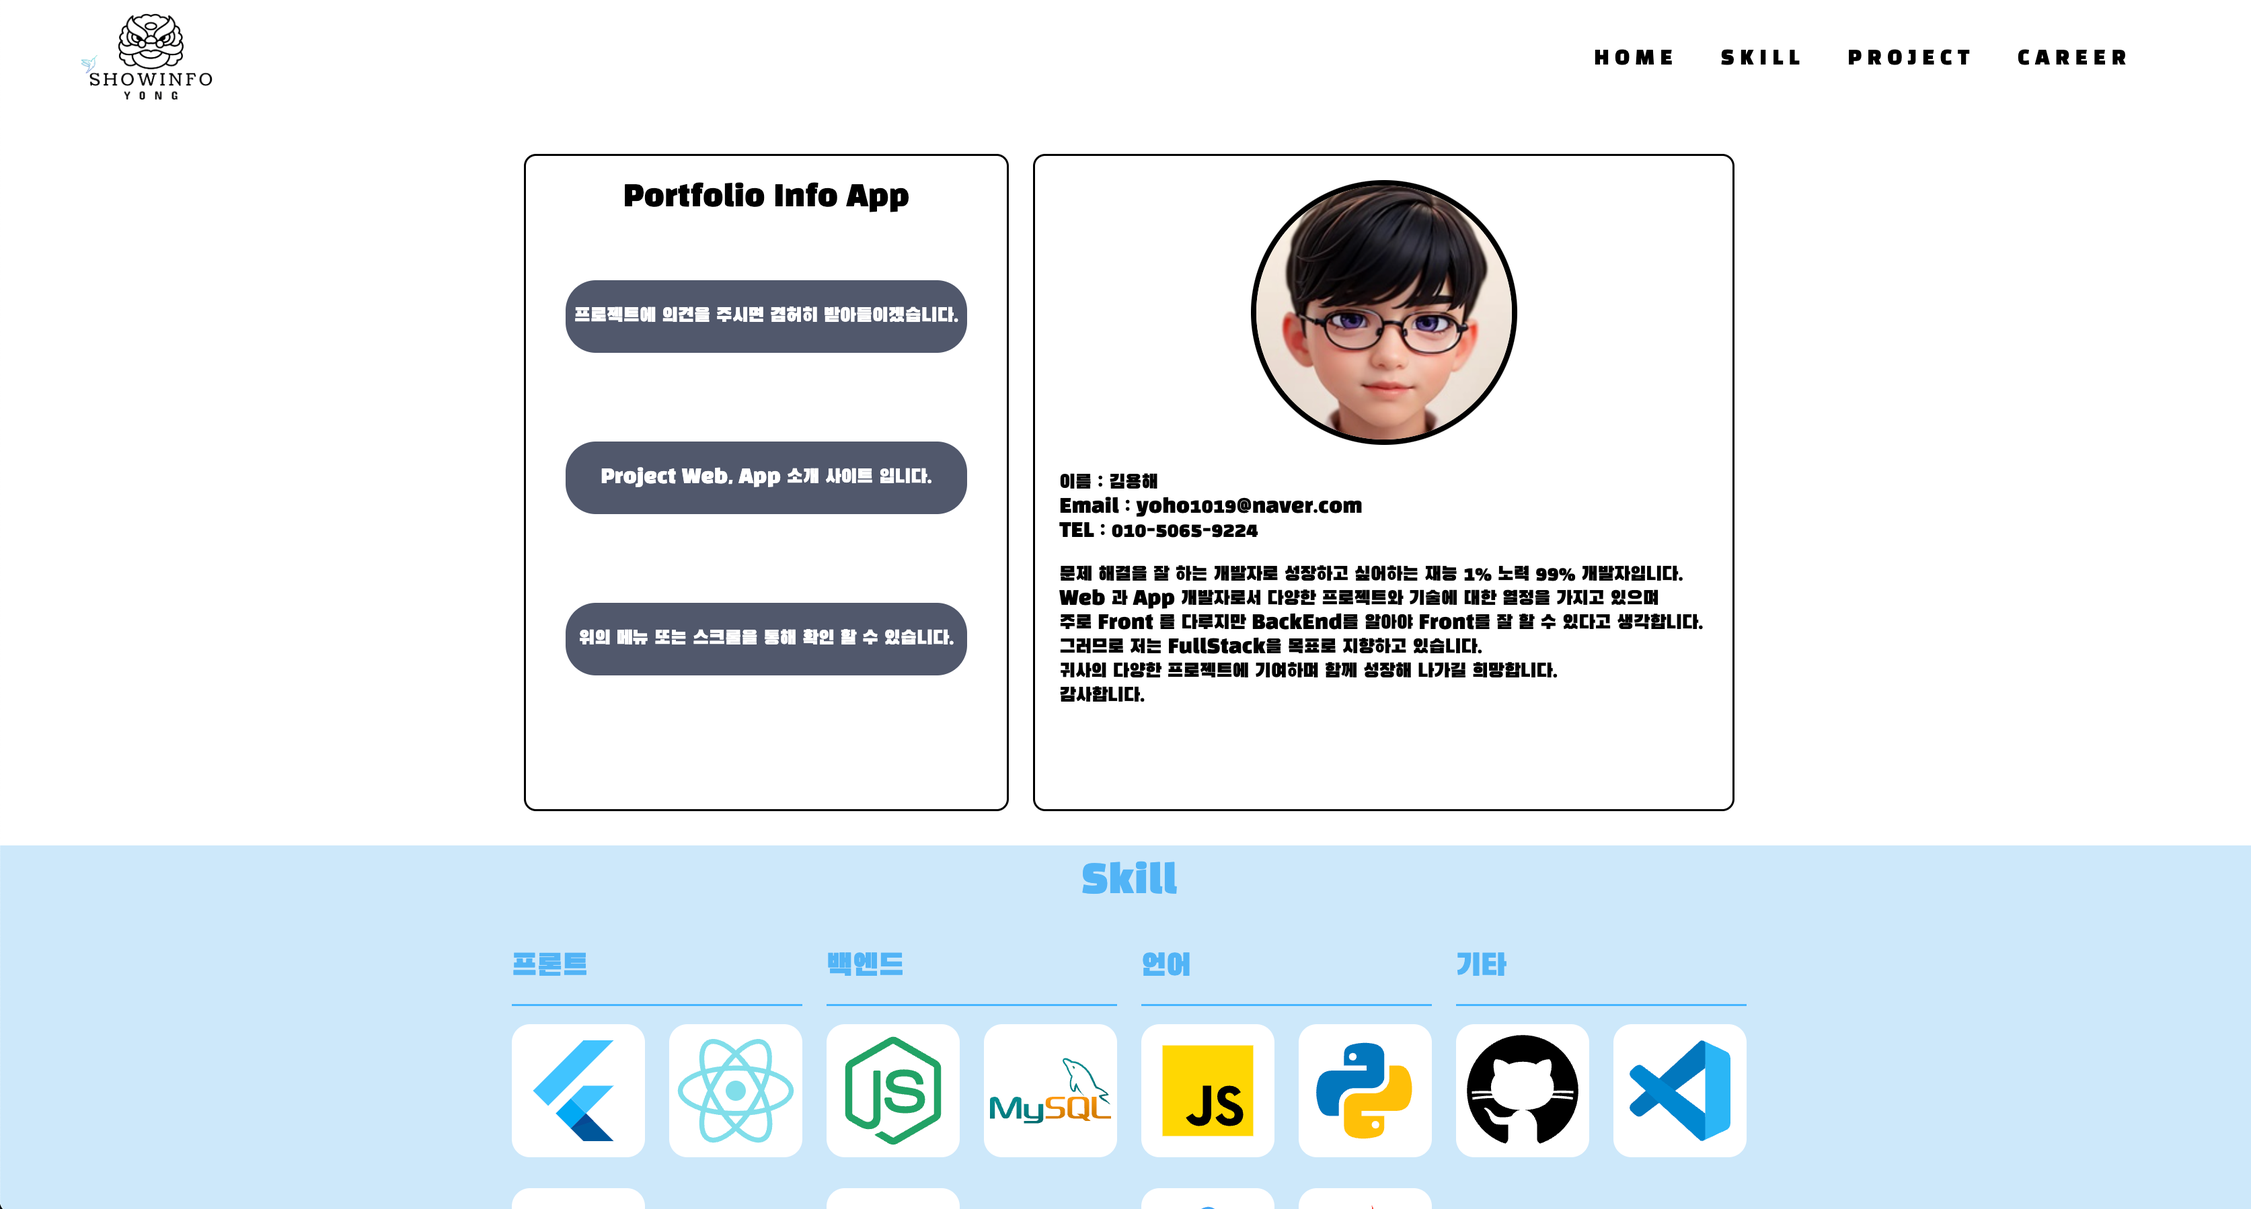
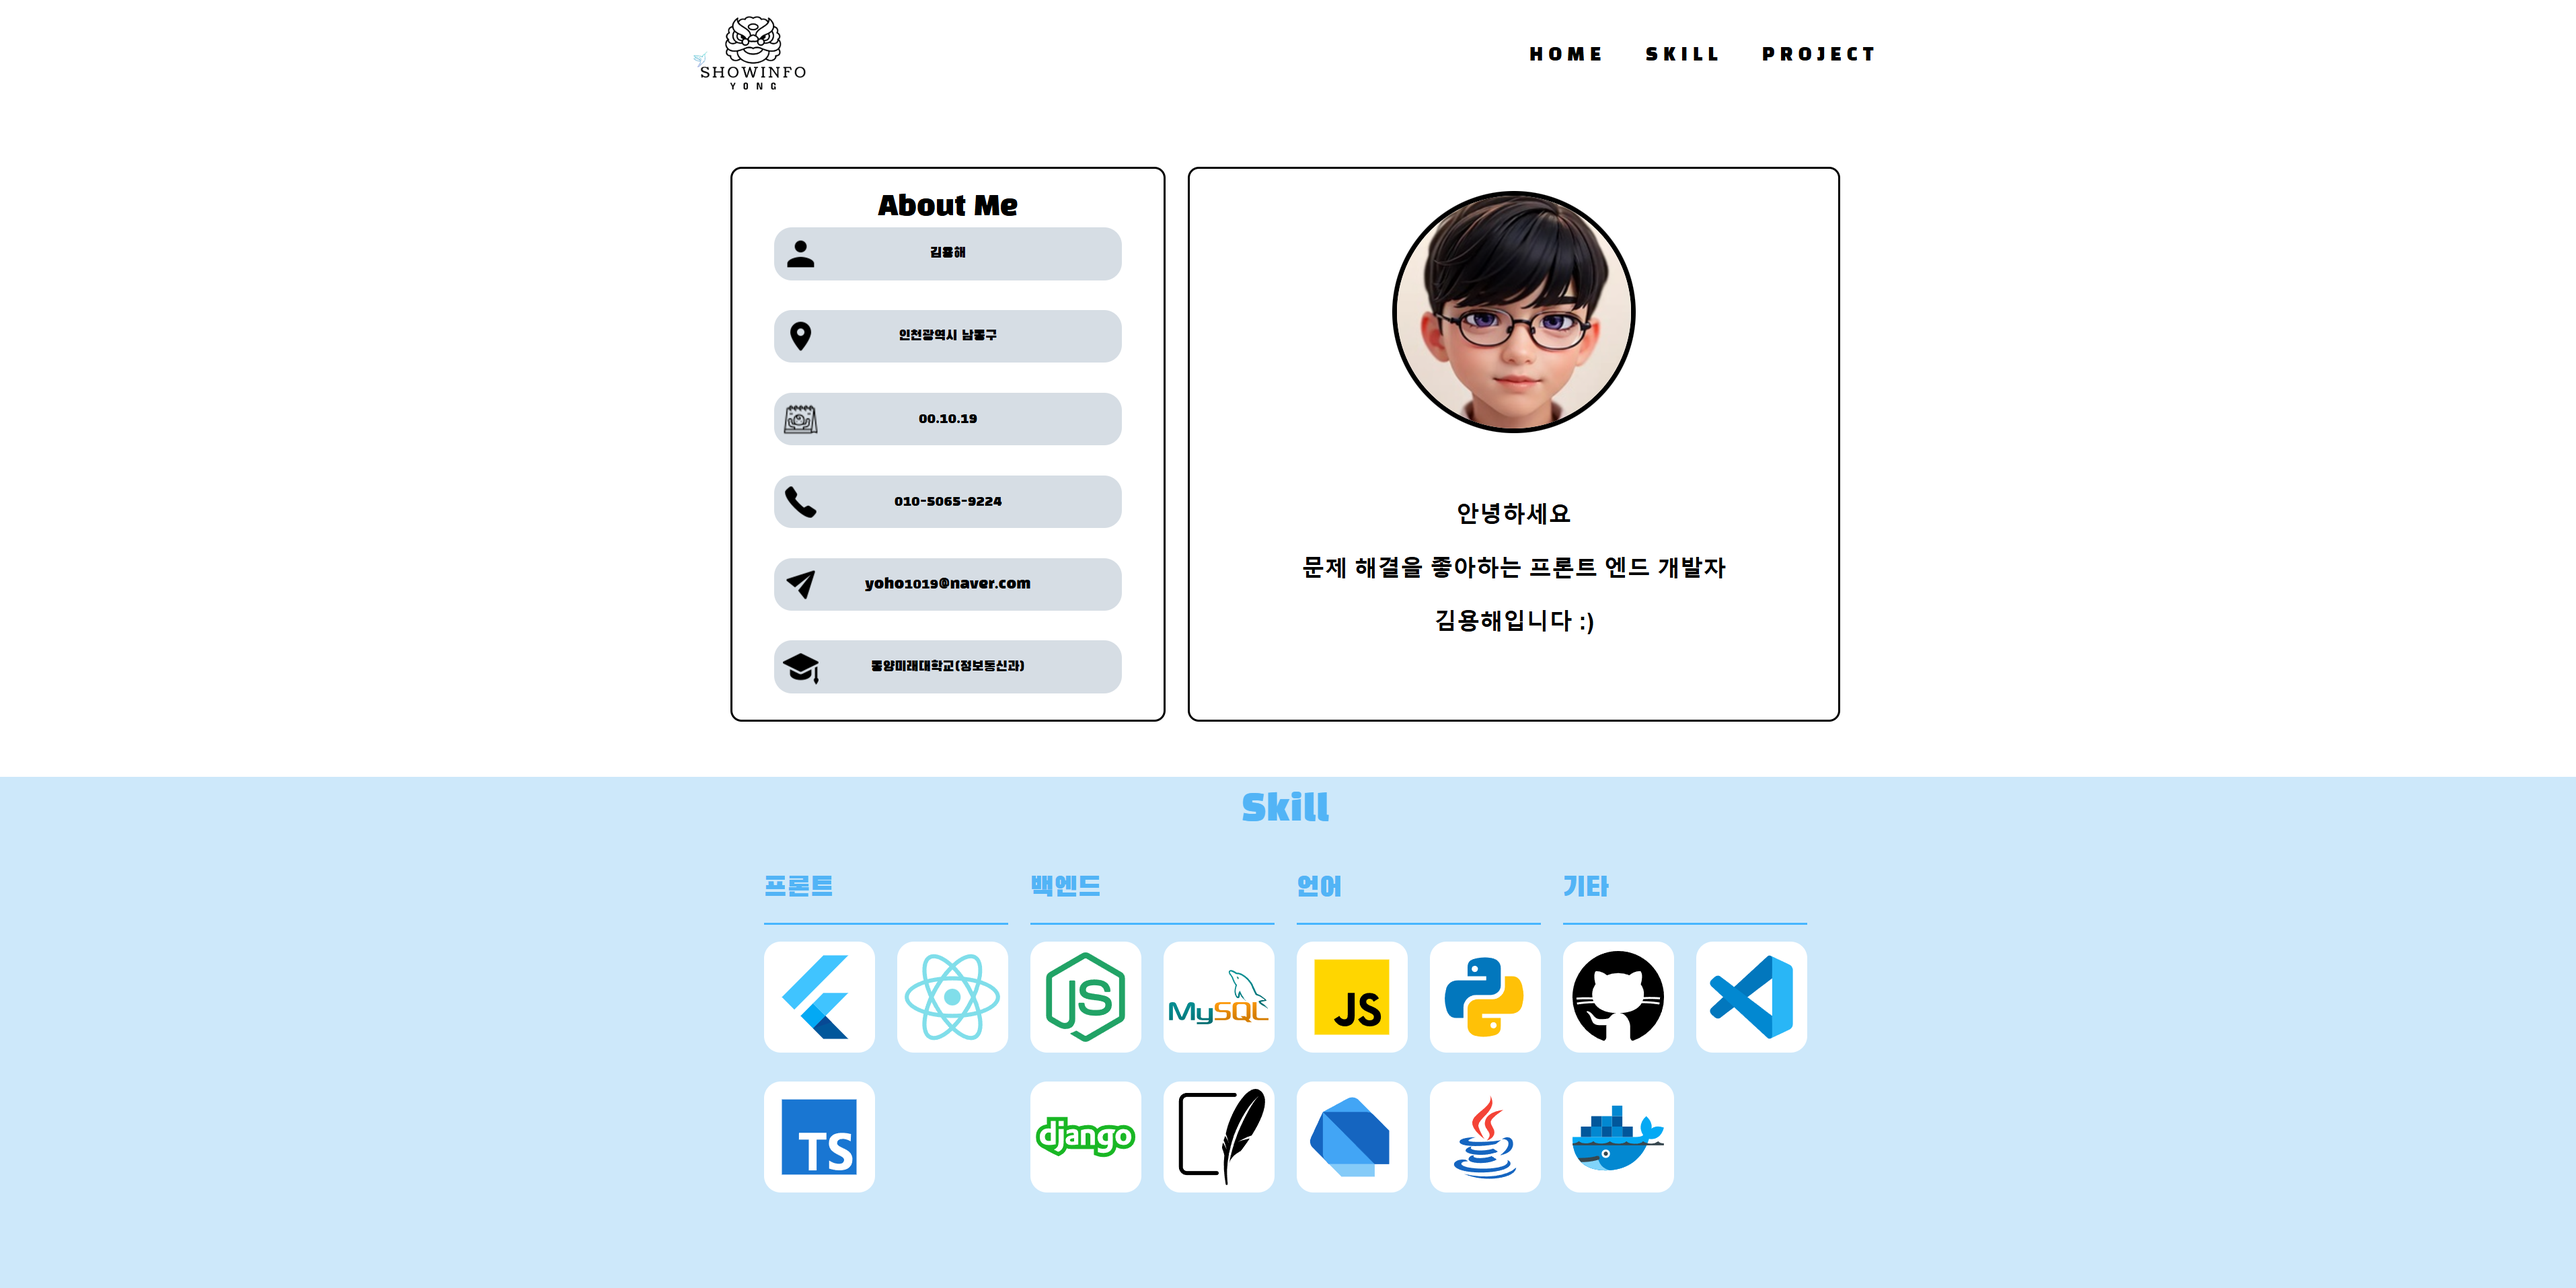
반응형 UI and data모델링

diff --git a/src/view/css/index.css b/src/view/css/index.css
@@ -3,17 +3,16 @@
 
 * {
     font-family: "Black Han Sans", sans-serif;
+    margin: 0;
+    padding: 0;
     font-weight: 400;
     font-style: normal;
+    box-sizing: border-box;
 }
 body::-webkit-scrollbar { 
     display: none;
 }
 body ,h1,h2,h3,h4,h5,p{ 
-    margin: 0;
-    padding: 0;
-    box-sizing: border-box;
-
     -ms-overflow-style: none; /* 인터넷 익스플로러 firegox는 드래그 Bar가 있을까..? */
 }
 
@@ -45,6 +44,7 @@ a , button {
     display: flex;
     justify-content: space-between;
     align-items: center;
+    font-size: 1rem;
 }
 
 /*-------------- header-logo ------------*/
@@ -75,7 +75,7 @@ a , button {
     background-color: #3498db;
     border: 0;
     border-radius: 0.3rem;
-    font-size: 17px;
+    font-size: 1rem;
     color: white;
     margin: 0 5px;
     padding: 10px;
@@ -93,8 +93,8 @@ a , button {
 
 
 .content-centeroid {
-    width: 1000px; /* 절대 값 width*/
-    height: 500px;
+    width: 1100px; /* 절대 값 width*/
+    height: 600px;
     padding:  50px;
     margin: 0 auto;
     display: flex;
@@ -140,11 +140,12 @@ a , button {
 .left-content-box li {
     width: 90%;
     position: relative;
+    margin: 0.2rem 0;
     padding: 1rem;
     border-radius: 1rem;
     text-align: center;
     background-color: #d6dde4;
-    
+    font-size: 0.8rem;
 }
 
 /*---------------------------------------*/
@@ -189,6 +190,7 @@ a , button {
 .skill-container {
     height: 700px;
     background-color: #cde8fa;
+
 }
 
 .skill-centeroid {
@@ -207,6 +209,7 @@ a , button {
 
 .skill-bottom {
     display: grid;
+    height: inherit;
     grid-template-columns: repeat(4,1fr);
 }
 
@@ -304,7 +307,7 @@ div#imgBox { /* relative를 위해 만듬. */
     box-sizing: border-box;
     display: flex;
     justify-content: center;
-    height: 1000px;
+    height: 100vh;
 }
 
 
@@ -364,6 +367,7 @@ ul.project-article-detail {
 
 .project-content { /*Project 에서 오른쪽 이미지를 담을 공간*/
     width: 800px;
+    padding: 10px;
     border-radius: 15px;
     position: relative;
     background-color: #FFF;
@@ -416,7 +420,7 @@ button.project-prevButton, button.project-nextButton {
 }
 
 ul.project-avatar-detail {
-    height: 180px;
+    height: 9rem;
     background-color: #F6F8FA;
     margin: 0 1rem;
     list-style-type: circle;
@@ -495,3 +499,165 @@ div.project-progress ul li {
     width: 50px;
 }
 /*---------------------------------------*/
+
+
+
+/*------------반응형----------------*/
+
+@media (max-width: 1400px) {
+    .project-container{
+        height: 100%;
+    }
+    .project-centeroid {
+        flex-direction: column;
+    }
+
+    .project-article {
+        margin: 10px 0;
+        padding: 10px;
+        width: 700px;
+        height: fit-content;
+    }
+    ul.project-article-detail {
+        display: grid;
+        grid-template-columns: repeat(2, 1fr);
+        height: fit-content;
+    }
+
+    .project-content {
+        padding: 10px;
+        width: 700px;
+        height: fit-content;
+    }
+}
+
+@media (max-width: 1200px) {
+    .header-centeroid {
+        width: 900px;
+    }
+    .content-centeroid {
+        width: 900px;
+    }
+}
+
+@media (max-width: 1000px) {
+    .header-centeroid {
+        width: 700px;
+    }
+    .content-centeroid {
+        width: 700px;
+        flex-direction: column-reverse;
+        height: 100%;
+    }
+    .left-content {
+        margin: 20px 0 0 0;
+        width: 100%;
+    }
+    .left-content-box {
+        display: grid;
+        grid-template-columns: repeat(3, 1fr);    
+    }
+    .left-content-box li{
+        padding: 0;
+        height: 70px;
+        display: flex;
+        justify-content: center;
+        align-items: center;
+    }
+    .left-content-box img {
+        width: 1.3rem;
+        height: 1.3rem;
+    }
+
+    .right-content {
+        width: 100%;
+    }
+}
+
+@media screen and (max-width : 1100px) {
+    .skill-container {
+        height: 100%;
+    }
+    
+    .skill-centeroid {
+        width: 700px;
+    }
+    .skill-bottom {
+        grid-template-columns: repeat(2, 1fr);
+        justify-items: center; 
+        align-items: center; 
+        gap: 10px;
+    }
+    
+}
+
+@media (max-width: 800px) {
+    .header-centeroid {
+        width: 500px;
+    }
+    .content-centeroid {
+        width: 500px;
+    }
+    .left-content-box li{
+        padding: 10px;
+        height: 60px;
+    }
+    .left-content-box li img{
+        left: -5px;
+        top: -5px;
+    }
+
+    .skill-centeroid {
+        width: 500px;
+        padding: 0;
+        
+    }
+    .project-container {
+        height : 100%;
+        padding: 20px 0;
+    }
+    .project-article {
+        width: 450px;
+    }
+    .project-content {
+        width: 450px;
+    }
+    ul.project-article-detail {
+        grid-template-columns: repeat(1, 1fr);
+    }
+}
+
+@media (max-width: 600px) {
+    .header-centeroid {
+        font-size: 0.7rem;
+    }
+    .content-centeroid {
+        width: 400px;
+    }
+    .left-content-box {
+        grid-template-columns: repeat(2, 1fr);    
+    }
+}
+
+@media (max-width: 500px) {
+    .header-centeroid {
+        font-size: 0.;
+        width: 100%;
+    }
+
+    .skill-centeroid {
+        width: 400px;
+    }
+    .skill-bottom {
+        grid-template-columns: repeat(1, 1fr);
+    }
+}
+
+
+@media (max-width: 400px) {
+    .content-container {
+        width: 300px; /* 화면의 90% 너비 */
+        margin: 0 auto; /* 좌우 가운데 정렬 */
+    }
+}
+

diff --git a/src/view/components/Header.jsx b/src/view/components/Header.jsx
@@ -3,27 +3,39 @@ import { useEffect, useRef, useState } from "react";
 function Header(props){
 
     const headerRef = useRef(null);
-    const [count,SetCount] = useState(0);
-    
-    const moveScrollHome = (height,index) => {
+    const [locations , setLocations] = useState([]);
 
-        SetCount(index); // 상태 업데이트
+    const moveScroll = (index) => {
 
         window.scrollTo({
-            top : height,
+            top : locations[index],
             behavior : "smooth",
         });
 
-        props.pageDelivery(count); // count 값을 부모에게 전달.
     };
 
     useEffect(() => {
-        props.pageDelivery(count); // count 값을 부모에게 전달.
-    },[count]);
-
-    useEffect(() => {
         props.watch(headerRef.current.offsetTop);
-    },[]);
+    
+        let sum = 0;
+        const rootElement = document.querySelector("div#root");
+        const rootInnerChildren = Array.from(rootElement.children);
+    
+        const newLocations = []; // 임시 배열에 위치 값을 누적 저장
+    
+        rootInnerChildren.forEach((child) => {
+            sum += child.clientHeight;
+            newLocations.push(sum); 
+        });
+    
+        setLocations(newLocations); // 한 번에 상태 업데이트
+    }, [
+        window.matchMedia("(max-width: 1100px)").matches,
+        window.matchMedia("(max-width: 1000px)").matches,
+        window.matchMedia("(max-width: 800px)").matches,
+        window.matchMedia("(max-width: 600px)").matches,
+        window.matchMedia("(max-width: 500px)").matches,
+    ]);
 
     return(
         <header ref={headerRef} className="header-container">
@@ -32,16 +44,11 @@ function Header(props){
                     <a href="/"><img className="header-logo-img" src="src\assets\logo.png"/></a>
                 </div>
                 <ul className="header-center">    {/* 중앙 Header 내용 */}
-                    <li onClick={() => moveScrollHome(0,0)}>H O M E</li>
-                    <li onClick={() => moveScrollHome(700,2)}>S K I L L</li>
-                    <li onClick={() => moveScrollHome(1400,3)}>P R O J E C T</li>
+                    <li onClick={() => moveScroll(0)}>H O M E</li>
+                    <li onClick={() => moveScroll(1)}>S K I L L</li>
+                    <li onClick={() => moveScroll(2)}>P R O J E C T</li>
                 </ul>
-                {/* 
-                    <div className="header-right">
-                        <Link to={"login"}>로 그 인</Link>
-                        <Link to={"register"}>회 원 가 입</Link>
-                    </div> 
-                */}
+                
             </div>
         </header>
     );

diff --git a/src/view/App.jsx b/src/view/App.jsx
@@ -7,10 +7,8 @@ import Project from "./components/Project.jsx";
 
 
 function App() {
-  const initPage = useRef(0); // 초기 페이지
   const [scrolls,SetScrolls] = useState([]); // 각각의 태그들의 ref값을(offsetTop) 모아서 배열로 만듬.
   const [currentWidth, setCurrentWidth] = useState(window.innerWidth);
-  const [alertClick, setAlertClick] = useState(false);
 
   const resizeEvent = () => { /*resize이벤트 핸들러입니다.  */
     setCurrentWidth(window.innerWidth);
@@ -28,13 +26,10 @@ function App() {
     }
   },[currentWidth]);
 
-  // Header에게서 useState값 가져오기
-  const deliveryHeaderProps = (page) => {
-    initPage.current = page;
-  }
+
   return(
     <>
-      <Header pageDelivery={deliveryHeaderProps}  watch={watchingScroll}/> {/*  Header 영역의 Layout 입니다. */}
+      <Header  watch={watchingScroll}/> {/*  Header 영역의 Layout 입니다. */}
       <Content watch={watchingScroll}/> {/*  main 내용이 들어갈 영역의 Layout 입니다. */}
       <Project  watch={watchingScroll}/>
       {/* <Career />  나중을 위한 경력을 만듭시다.*/}

diff --git a/src/view/components/skill/SkillCard.jsx b/src/view/components/skill/SkillCard.jsx
@@ -34,7 +34,6 @@ function SkillCard(props) {
             <p>{props.skill.name}</p>
             <div className="skill-content">
                 {props.skill.data.map((val, index) => {
-                    console.log(val.slice(0,-4));
                    const className = val.slice(0,-4); 
                    return(
                     <div key={index} id="imgBox" className={className}>

diff --git a/index.html b/index.html
@@ -3,7 +3,7 @@
   <head>
     <meta charset="UTF-8" />
     <link rel="icon" type="image/svg+xml" href="./src/assets/logo.png" />
-    <meta name="viewport" content="width=device-width, initial-scale=1.0" />
+    <meta name="viewport" content="width=device-width, initial-scale=1">
     <title>ShowInfo | H O M E</title>
   </head>
   <body>
